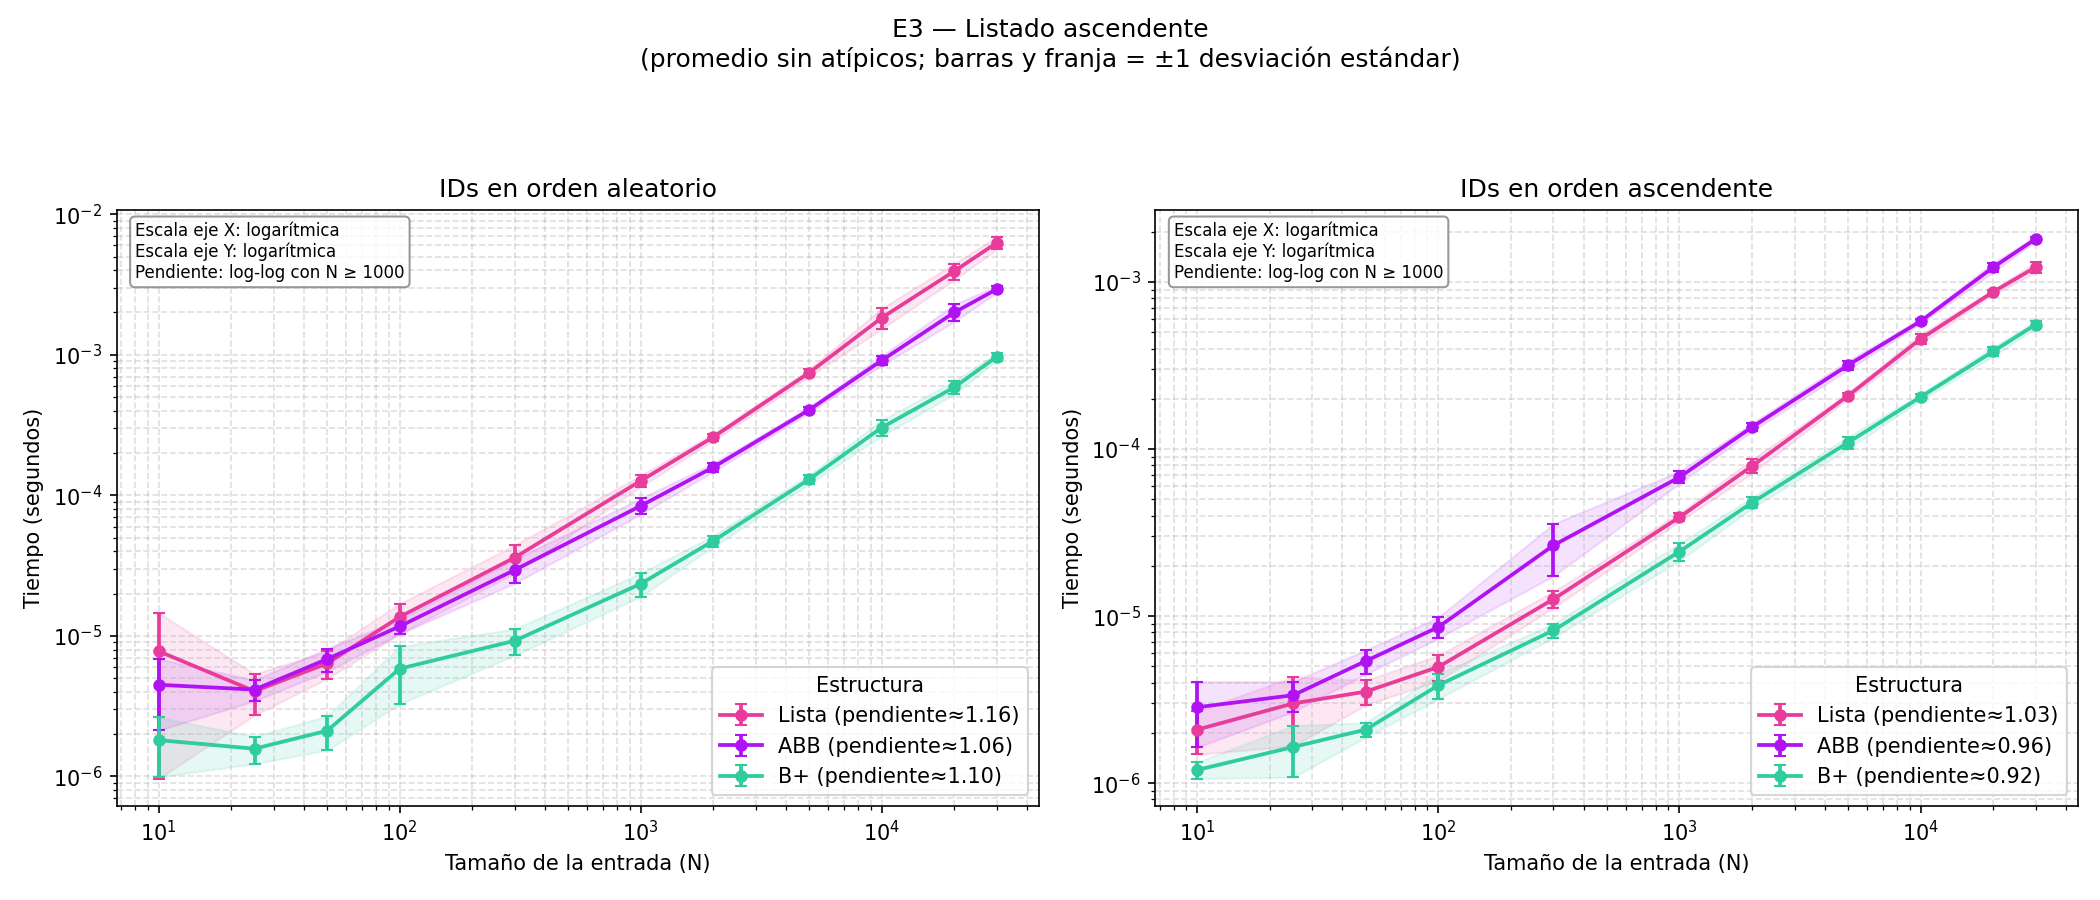
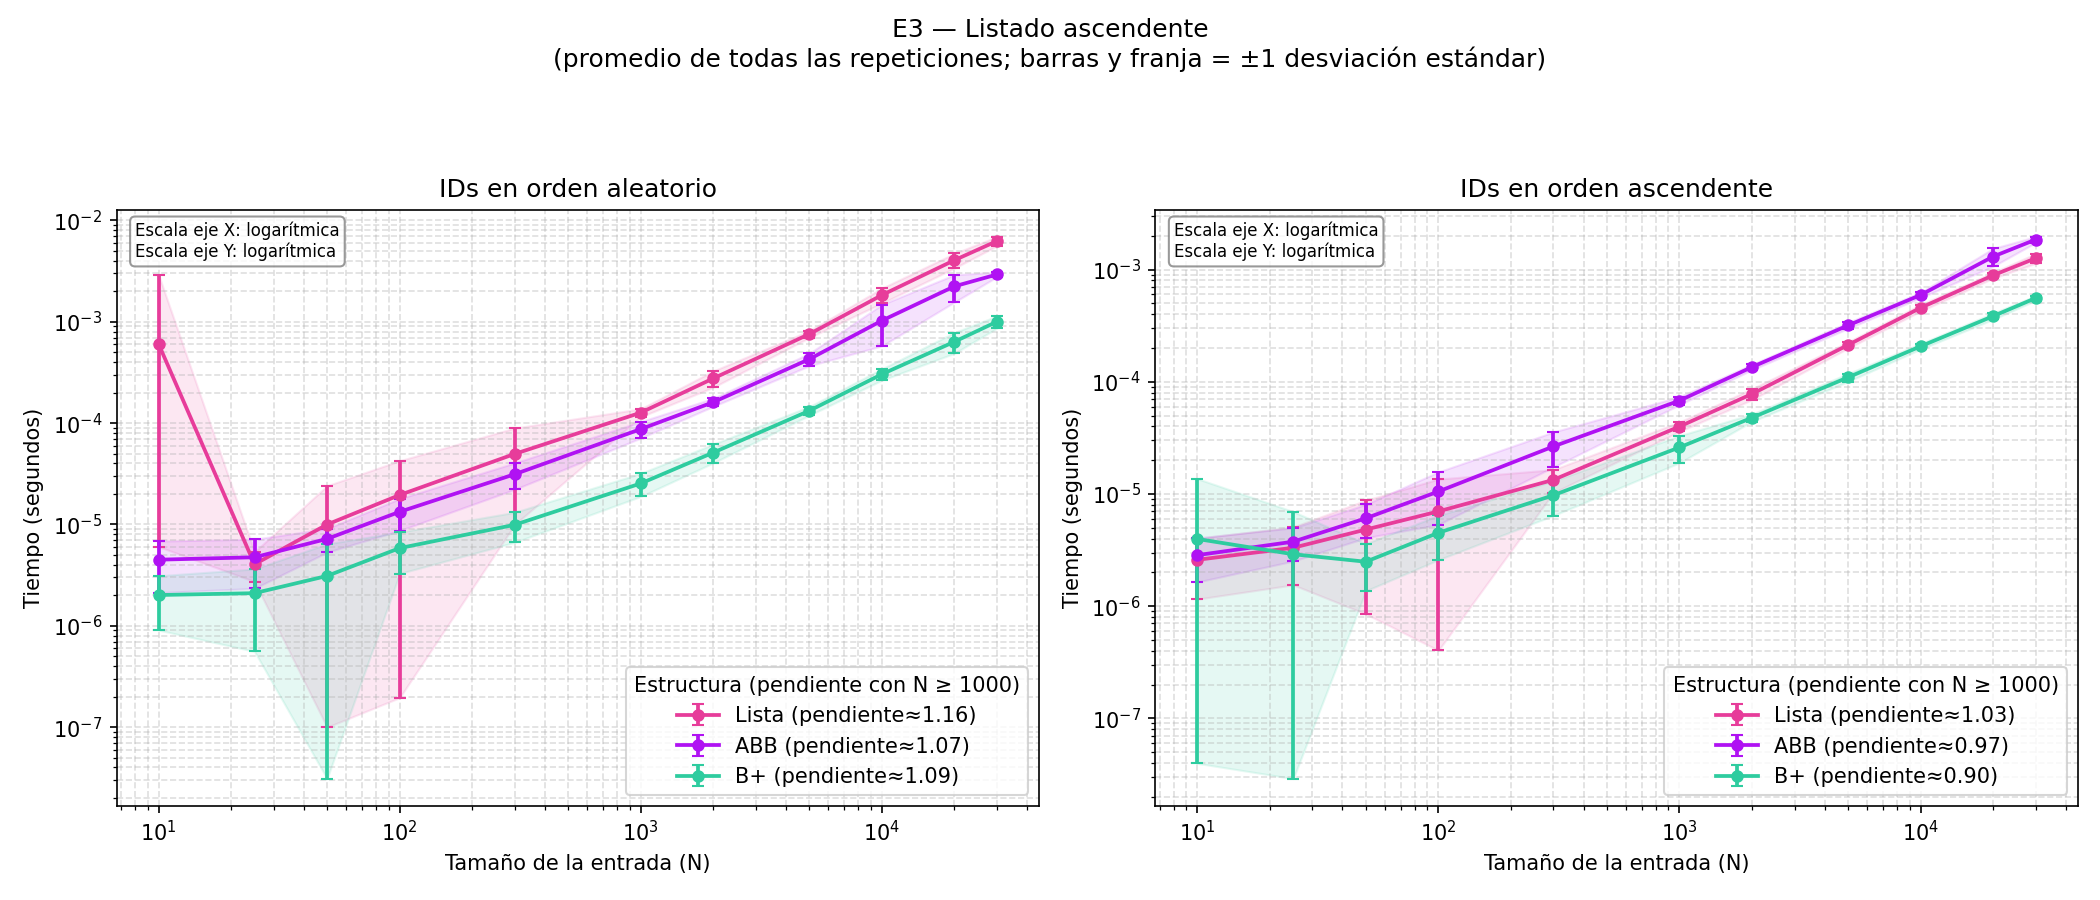
Corrección en gráficas

diff --git a/Laboratorio 3/Graficas.py b/Laboratorio 3/Graficas.py
@@ -4,7 +4,6 @@ import matplotlib.pyplot as plt
 import numpy as np
 import pandas as pd
 
-
 ARCHIVOS_CSV = [
     "datos/e1_insercion.csv",
     "datos/e2_busqueda.csv",
@@ -48,31 +47,32 @@ def cargar_datos(archivos):
     return df
 
 
-def quitar_atipicos(tiempos):
+def contar_atipicos(tiempos):
     # Regla de Tukey sobre las repeticiones de un mismo (estructura, orden, N):
-    # se descarta lo que quede fuera de [Q1 - 1.5*IQR, Q3 + 1.5*IQR].
+    # una repetición se MARCA como atípica si queda fuera de [Q1 - 1.5*IQR, Q3 + 1.5*IQR].
+    # Solo se cuentan para reportarlas; NO se descartan.
     q1, q3 = tiempos.quantile(0.25), tiempos.quantile(0.75)
     iqr = q3 - q1
-    return tiempos[(tiempos >= q1 - 1.5 * iqr) & (tiempos <= q3 + 1.5 * iqr)]
+    return int(((tiempos < q1 - 1.5 * iqr) | (tiempos > q3 + 1.5 * iqr)).sum())
 
 
 def agrupar(df, experimento):
-    # Por cada (estructura, orden, N): se quitan los atípicos y sobre lo restante
-    # se calcula promedio y desviación estándar.
+    # Por cada (estructura, orden, N): promedio y desviación estándar de TODAS las repeticiones.
+    # Las repeticiones atípicas se conservan; solo se cuenta cuántas hay para reportarlas.
     datos = df[df["experimento"] == experimento]
     filas = []
-    descartados = 0
+    marcadas = 0
     for (estr, orden, n), g in datos.groupby(["estructura", "orden", "N"]):
-        limpios = quitar_atipicos(g["tiempo_s"])
-        descartados += len(g) - len(limpios)
+        t = g["tiempo_s"]
+        marcadas += contar_atipicos(t)
         filas.append({"estructura": estr, "orden": orden, "N": n,
-                      "mean": limpios.mean(), "std": limpios.std(), "count": len(limpios)})
-    print(f"{experimento}: {descartados} de {len(datos)} repeticiones descartadas como atípicas")
+                      "mean": t.mean(), "std": t.std(), "count": len(t)})
+    print(f"{experimento}: {marcadas} de {len(datos)} repeticiones marcadas como atípicas (se conservan)")
     return pd.DataFrame(filas)
 
 
 def agrupar_altura(df):
-    # La altura no se filtra: es una propiedad estructural del árbol, no una medición con ruido.
+    # La altura es una propiedad estructural del árbol, no una medición con ruido.
     datos = df.copy()
     datos["altura"] = pd.to_numeric(datos["altura"], errors="coerce")
     datos = datos.dropna(subset=["altura"])
@@ -81,13 +81,6 @@ def agrupar_altura(df):
     datos = datos[datos["experimento"] == sorted(datos["experimento"].unique())[0]]
     return (datos.groupby(["estructura", "orden", "N"])["altura"]
             .agg(["mean", "std", "count"]).reset_index())
-
-
-def decidir_escala(valores):
-    valores = valores[valores > 0]
-    if len(valores) < 2:
-        return "linear"
-    return "log" if valores.max() / valores.min() > 50 else "linear"
 
 
 def calcular_pendiente(N, valores):
@@ -132,18 +125,17 @@ def graficar_subplot(ax, resumen, orden, escala_y, ylabel, estructuras):
     ax.set_xlabel("Tamaño de la entrada (N)")
     ax.set_ylabel(ylabel)
     ax.set_title(NOMBRES_ORDEN.get(orden, orden))
-    ax.legend(title="Estructura")
+    ax.legend(title=f"Estructura (pendiente con N ≥ {N_MIN_AJUSTE})")
     ax.grid(True, which="both", linestyle="--", alpha=0.4)
 
-    texto = (f"Escala eje X: logarítmica\nEscala eje Y: {'logarítmica' if escala_y == 'log' else 'lineal'}\n"
-             f"Pendiente: log-log con N ≥ {N_MIN_AJUSTE}")
+    texto = "Escala eje X: logarítmica\nEscala eje Y: logarítmica"
     ax.text(0.02, 0.98, texto, transform=ax.transAxes, fontsize=8, va="top", ha="left",
             bbox=dict(boxstyle="round", facecolor="white", alpha=0.8, edgecolor="gray"))
 
 
 def hacer_figura(resumen, titulo, ylabel, ruta, estructuras):
     ordenes = [o for o in ["aleatorio", "ordenado"] if o in resumen["orden"].unique()]
-    escala_y = decidir_escala(resumen["mean"].values)
+    escala_y = "log"      # siempre log-log
 
     fig, axes = plt.subplots(1, len(ordenes), figsize=(7 * len(ordenes), 6), squeeze=False)
     for ax, orden in zip(axes[0], ordenes):
@@ -169,7 +161,7 @@ def main():
         nombre = NOMBRES_EXPERIMENTO.get(exp, exp)
         hacer_figura(
             resumen,
-            f"{exp} — {nombre}\n(promedio sin atípicos; barras y franja = ±1 desviación estándar)",
+            f"{exp} — {nombre}\n(promedio de todas las repeticiones; barras y franja = ±1 desviación estándar)",
             "Tiempo (segundos)",
             os.path.join(CARPETA_SALIDA, f"{exp}_{nombre.replace(' ', '_')}.png"),
             ("lista", "abb", "bmas"),
